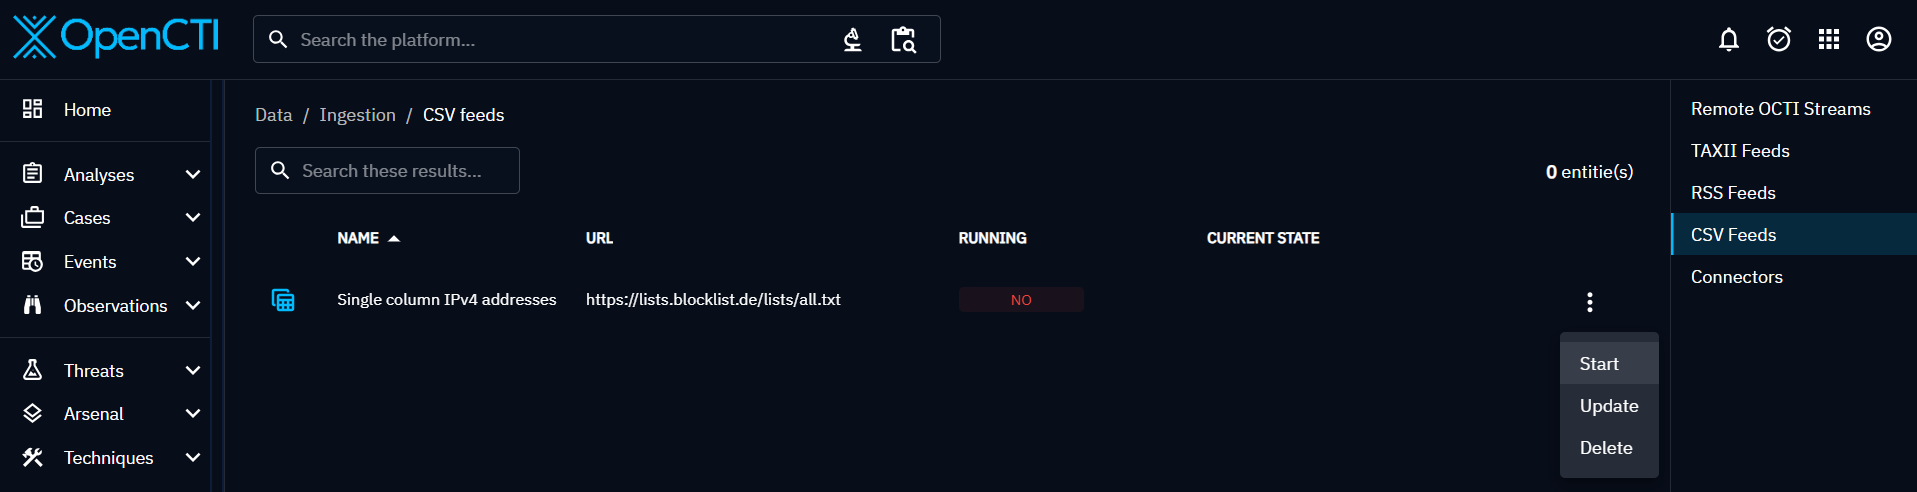
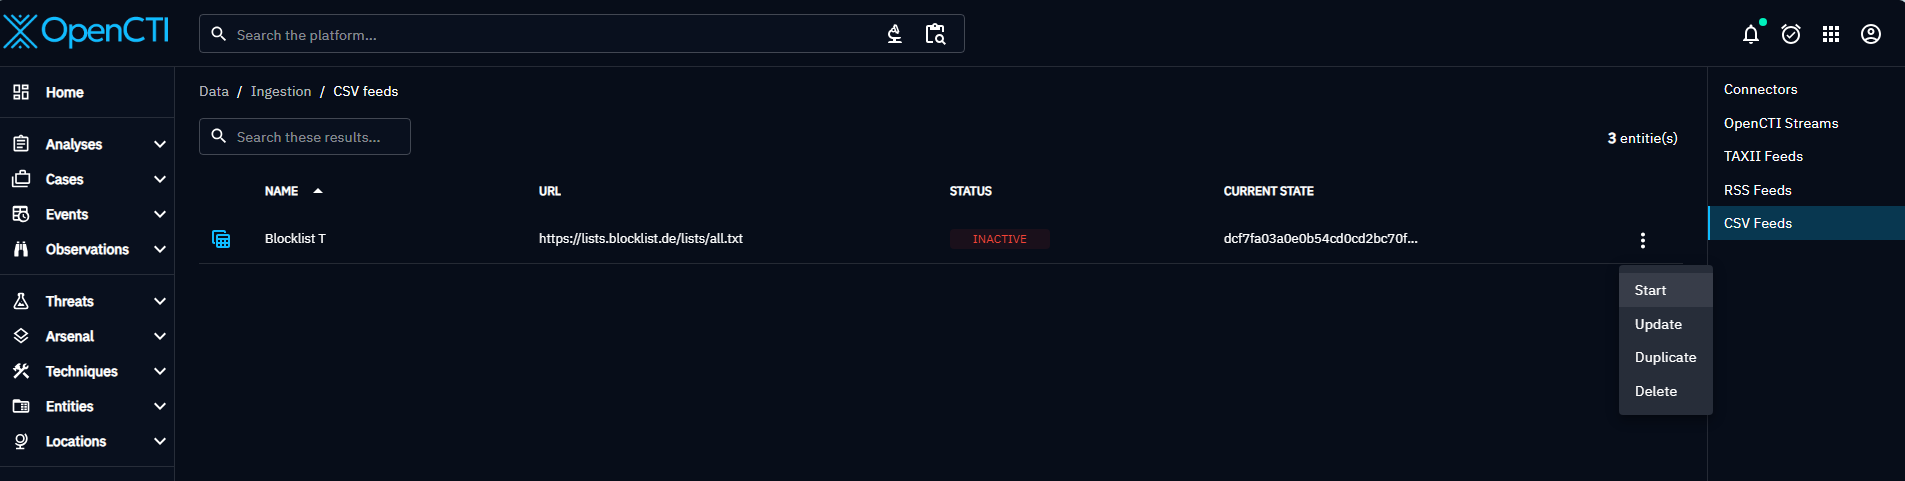
[docs] CSV duplication and Dynamic entity mapping in CSV mapper creation (#7400)
---------

diff --git a/docs/administration/csv-mappers.md b/docs/administration/csv-mappers.md
@@ -16,6 +16,7 @@ Enter a name for your mapper and some basic information about your CSV files:
 
 - The line separator used (defaults to the standard comma character)
 - The presence of a header on the first line
+- The char to escape the lines
 
 !!! info "Header management"
 
@@ -34,6 +35,32 @@ References to other entities should be picked from the list of all the other rep
 You can do the same for all the relationships between entities that might be defined in this particular CSV file structure.
 
 ![New representation](assets/csv-mappers-rep-1.png)
+
+### Entity dynamic mapping
+
+If your CSV file contains multiple entities in separate rows but in the same columns, you can enable "Entity dynamic mapping". 
+Click the toggle button to activate it. You must then specify the following:
+
+- the column that contains the differentiator
+- the operator ("Equal" or "Not equal")
+- the value in this column that we compare with
+
+For instance, if the column A contains the observable type (such as `Ipv4`, `URL`), and the column B the observable value (`1.2.3.4`, `www.example.com`) you can
+set 2 representatives for IPv4 and URL entities, with dynamic mapping depending on the content of column A ; column B being used in both representatives as the observable value. 
+
+| Type                                                                         | Value                                                          | 
+|:-----------------------------------------------------------------------------|:---------------------------------------------------------------|
+| IPv4                                                    | 1.2.3.4                                     |
+| IPv4                                                    | 1.2.3.5                                     |
+| URL                                                    | www.example.com                                     |
+| IPv4                                                    | 1.2.3.6                                     |
+
+
+![Dynamic mapping (1)](assets/csv-mappers-dynamic-1.png)
+
+![Dynamic mapping (2)](assets/csv-mappers-dynamic-2.png)
+
+### Field options
 
 Fields might have options besides the mandatory column index, to help extract relevant data:
 
@@ -71,7 +98,7 @@ You can then check if the extracted values match the expected entities and relat
 
 !!! warning "Test with a small file"
 
-    We strongly recommend limiting test files to 100 lines and 1MB. Otherwise, the browser may crash.
+    The test is a blocking process for the platform. We strongly recommend limiting test files to 100 lines and 1MB, to prevent performance issues.
 
 
 ## Use a mapper for importing a CSV file
@@ -140,6 +167,19 @@ For marking definitions, setting a default value is different from other attribu
 - Let the user choose marking definitions. Here the user importing the CSV file will choose marking definitions (among the ones they can see) when selecting the CSV mapper.
 
 ![mapper-attribute](assets/csv-mappers-default-markings.png)
+
+### Duplicate the configuration of the CSV mappers
+
+If you need to modify your previous configuration, we recommend to duplicate the CSV mapper using the duplicate option in the burger button.
+
+![mapper-duplicate-button](assets/csv-mapper-duplicate-button.png)
+
+As you see, when you duplicate your CSV mapper, the fields are pre-filled but you can change any of them. We advice you to keep the name with '-copy' to signify the origin of the duplicate CSV.
+
+![mapper-duplicate-form](assets/csv-mapper-duplicate-form.png)
+
+You can always verify your configuration before validating the form (with a file containing 100 lines max).
+
 
 ## Additional resources
 

diff --git a/docs/usage/feeds.md b/docs/usage/feeds.md
@@ -69,10 +69,20 @@ As when using the GraphQL API, TAXII 2.1 collections have a classic pagination s
 <a id="csv-feeds-section"></a>
 ## CSV feeds
 
+### Introduction
+
 The CSV feed facilitates the automatic generation of a CSV file, accessible via a URL. The CSV file is regenerated and updated at user-defined intervals, providing flexibility. The entries in the file correspond to the information that matches the filters applied and that were created or modified in the platform during the time interval (between the last generation of the CSV and the new one).
 
 ![CSV feed](assets/csv-feed.png)
-
 !!! note "CSV size limit"
 
     The CSV file generated has a limit of 5 000 entries. If more than 5 000 entities are retrieved by the platform, only the most recent 5 000 will be shared in the file.
+
+### Duplication
+If you need to modify your previous configuration, we recommend to duplicate the CSV feed using the duplicate option in the burger button.
+
+![CSV feed duplication button](assets/feeds-duplicate.png)
+
+As you see, when you duplicate the CSV feed, the fields are pre-filled but you can change any of them. We advice you to keep the name with '-copy' to signify the origin of the duplicate feed.  
+
+![CSV feed duplication form](assets/feeds-duplication-form.png)

diff --git a/docs/usage/import-automated.md b/docs/usage/import-automated.md
@@ -141,6 +141,19 @@ CSV feed ingestion is made possible thanks to the connector "ImportCSV". So you 
 
 ![CSV feeds creation: tracking](assets/csv-feeds-importCSV-connector-tracking.png)
 
+### Duplicate a CSV feed ingester
+
+If you need to modify your previous configuration which is already activated, we recommend to duplicate the CSV feed using the duplicate option in the burger button.
+
+![CSV feeds duplicate: duplicate](assets/csv-feeds-burger-button.png)
+
+As you see, when you duplicate the CSV feed, the fields are pre-filled but you can change any of them. We advice you to keep the name with '-copy' to signify the origin of the duplicate feed.  
+
+![CSV feeds duplication form: duplicate](assets/csv-feeds-duplicate.png)
+
+As you see previously, you need to verify your CSV configuration before validating your form. Finally, you need to click on start to launch your new ingester. 
+
+![CSV feeds duplication form: duplicate](assets/feeds-start-duplicate.png)
 
 <a id="best-practices-section"></a>
 ### Best practices for feed import
